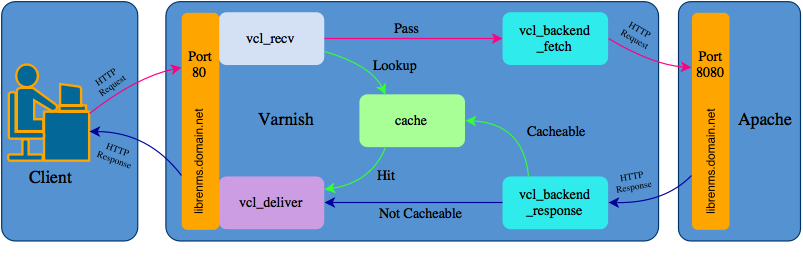
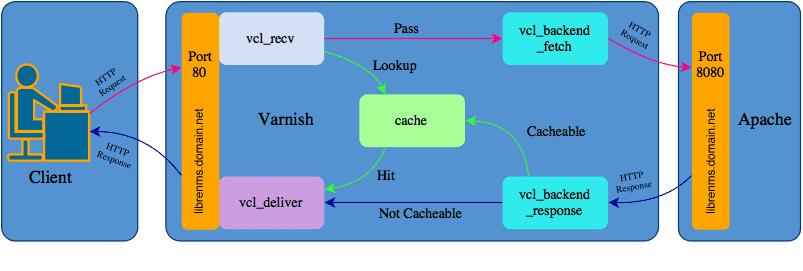
Optimize docs picture size (#10657)

diff --git a/doc/Extensions/Weathermap.md b/doc/Extensions/Weathermap.md
@@ -60,7 +60,7 @@ Optional: If your install is in another directory than standard, set
 
 Automatically generate weathermaps from a LibreNMS database using WeatherMapper [Link](https://github.com/pblasquez/weathermapper)
 
-![Example Network Weather Map](/img/network-weather-map.PNG)
+![Example Network Weather Map](/img/network-weather-map.png)
 
 # Adding your Network Weathermaps to the Dashboards
 

diff --git a/doc/Extensions/Network-Map.md b/doc/Extensions/Network-Map.md
@@ -88,4 +88,4 @@ $config['network_map_vis_options'] = '{
 }';
 ```
 
-![Example Network Map](/img/networkmap.PNG)
+![Example Network Map](/img/networkmap.png)
